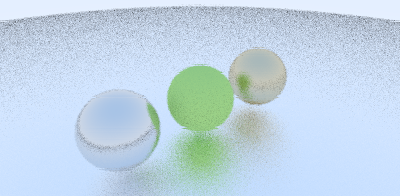
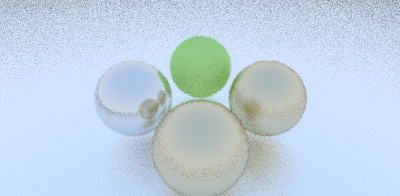
Add sorting after rendering to avoid having pixel rows in the wrong place

diff --git a/src/raytracer.cpp b/src/raytracer.cpp
@@ -5,6 +5,7 @@
 #include <glm\glm.hpp>
 #include <thread>
 #include <future>
+#include <algorithm>
 #include "external\TinyPngOut.h"
 #include "utilities\random.h"
 
@@ -45,6 +46,7 @@ void Raytracer::render(const Scene &scene, const Camera &camera, int passes, int
     int y = height - 1;
     int threadCount = 0;
     std::vector<std::future<Row>> futures;
+    std::vector<Row> rows;
 
     while (y >= 0)
     {
@@ -63,11 +65,21 @@ void Raytracer::render(const Scene &scene, const Camera &camera, int passes, int
             std::future<Row>& future = futures[i];
             if (future.wait_for(std::chrono::seconds(0)) == std::future_status::ready)
             {
-                output.push_back(future.get().colors);
+                rows.push_back(future.get());
                 futures.erase(futures.begin() + i);
                 threadCount--;
             }
         }
+    }
+
+    std::sort(rows.begin(), rows.end(), [](const Row& left, const Row& right)
+    {
+        return left.index > right.index;
+    });
+
+    for (size_t i = 0; i < rows.size(); i++)
+    {
+        output.push_back(rows[i].colors);
     }
 }
 

diff --git a/src/main.cpp b/src/main.cpp
@@ -52,12 +52,14 @@ int main()
 	scene.ambient = Vector3(0.5f, 0.5f, 0.5f);
 	scene.addLight<Light>(Vector3(1, 1, -1), Vector3(0.5f, 0.5f, 0.5f));
 
-	scene.add<Sphere>(Vector3(0, 0, -1), 0.4f, "diffuse");
 	scene.add<Sphere>(Vector3(0, -100.5f, -1), 100, "ground");
-	scene.add<Sphere>(Vector3(1, 0, -1), 0.4f, "metal_orange");
-	scene.add<Sphere>(Vector3(-1, 0, -1), 0.4f, "metal_cold");
 
-	Camera camera(Vector3(-1.5f, 1.5f, 1), Vector3(0, 1, 0), Vector3(0, 0, -1), float(width) / float(height), 45.0f);
+	scene.add<Sphere>(Vector3(0.5f, 0, -1), 0.4f, "diffuse");
+	scene.add<Sphere>(Vector3(-0.5f, 0, -1), 0.4f, "metal_cold");
+	scene.add<Sphere>(Vector3(0.5f, 0, 0), 0.4f, "metal_orange");
+	scene.add<Sphere>(Vector3(-0.5f, 0, 0), 0.4f, "metal_orange");
+
+	Camera camera(Vector3(-1.5f, 1.5f, 1), Vector3(0, 1, 0), Vector3(0, 0, -0.5f), float(width) / float(height), 45.0f);
 
 	elapsedSeconds();
 	raytracer.render(scene, camera, antiAliasingPasses, threadCount);
